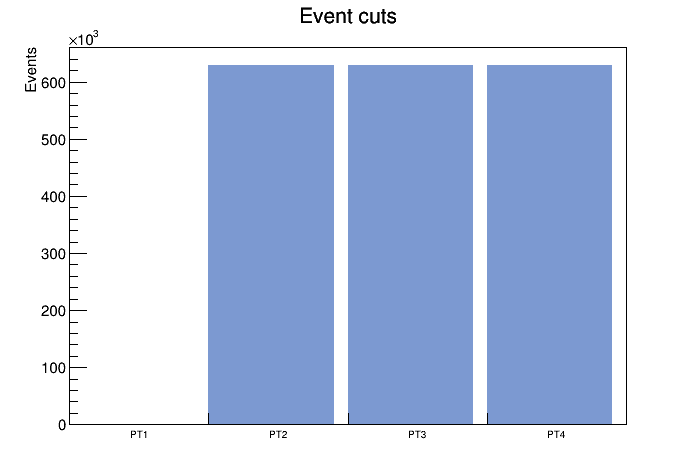
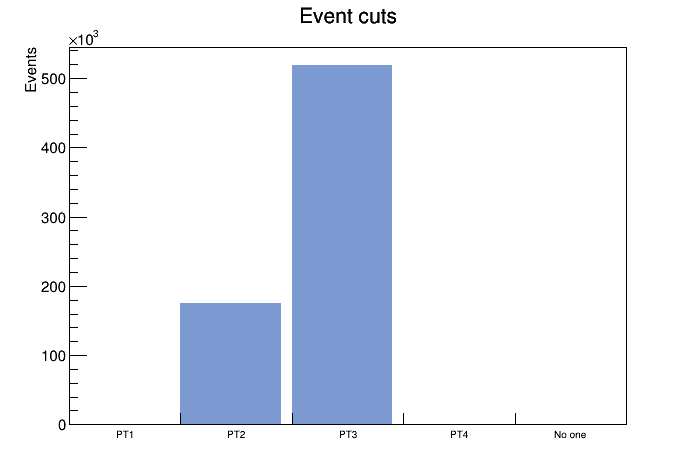
pics

diff --git a/macros/pics/Triggers.C b/macros/pics/Triggers.C
@@ -1,20 +1,20 @@
 {
 //=========Macro generated from canvas: c1/c1
-//=========  (Thu Nov 23 11:57:11 2017) by ROOT version5.34/34
+//=========  (Thu Nov 23 12:39:17 2017) by ROOT version5.34/34
    TCanvas *c1 = new TCanvas("c1", "c1",0,0,700,500);
-   c1->Range(-0.5,-82662.17,4.5,743959.5);
+   c1->Range(-0.625,-68174.67,5.625,613572);
    c1->SetFillColor(0);
    c1->SetBorderMode(0);
    c1->SetBorderSize(2);
    c1->SetFrameBorderMode(0);
    c1->SetFrameBorderMode(0);
    
-   TH1F *hCuts = new TH1F("hCuts","Event cuts",4,0,4);
-   hCuts->SetBinContent(2,629807);
-   hCuts->SetBinContent(3,629807);
-   hCuts->SetBinContent(4,629807);
+   TH1F *hCuts = new TH1F("hCuts","Event cuts",5,0,5);
+   hCuts->SetBinContent(2,174579);
+   hCuts->SetBinContent(3,519426);
+   hCuts->SetBinContent(5,336);
    hCuts->SetBarWidth(0.9);
-   hCuts->SetEntries(1889421);
+   hCuts->SetEntries(694341);
    hCuts->SetStats(0);
    hCuts->SetFillColor(38);
 
@@ -27,6 +27,7 @@
    hCuts->GetXaxis()->SetBinLabel(2,"PT2");
    hCuts->GetXaxis()->SetBinLabel(3,"PT3");
    hCuts->GetXaxis()->SetBinLabel(4,"PT4");
+   hCuts->GetXaxis()->SetBinLabel(5,"No one");
    hCuts->GetXaxis()->SetLabelFont(42);
    hCuts->GetXaxis()->SetLabelSize(0.035);
    hCuts->GetXaxis()->SetTitleSize(0.035);
